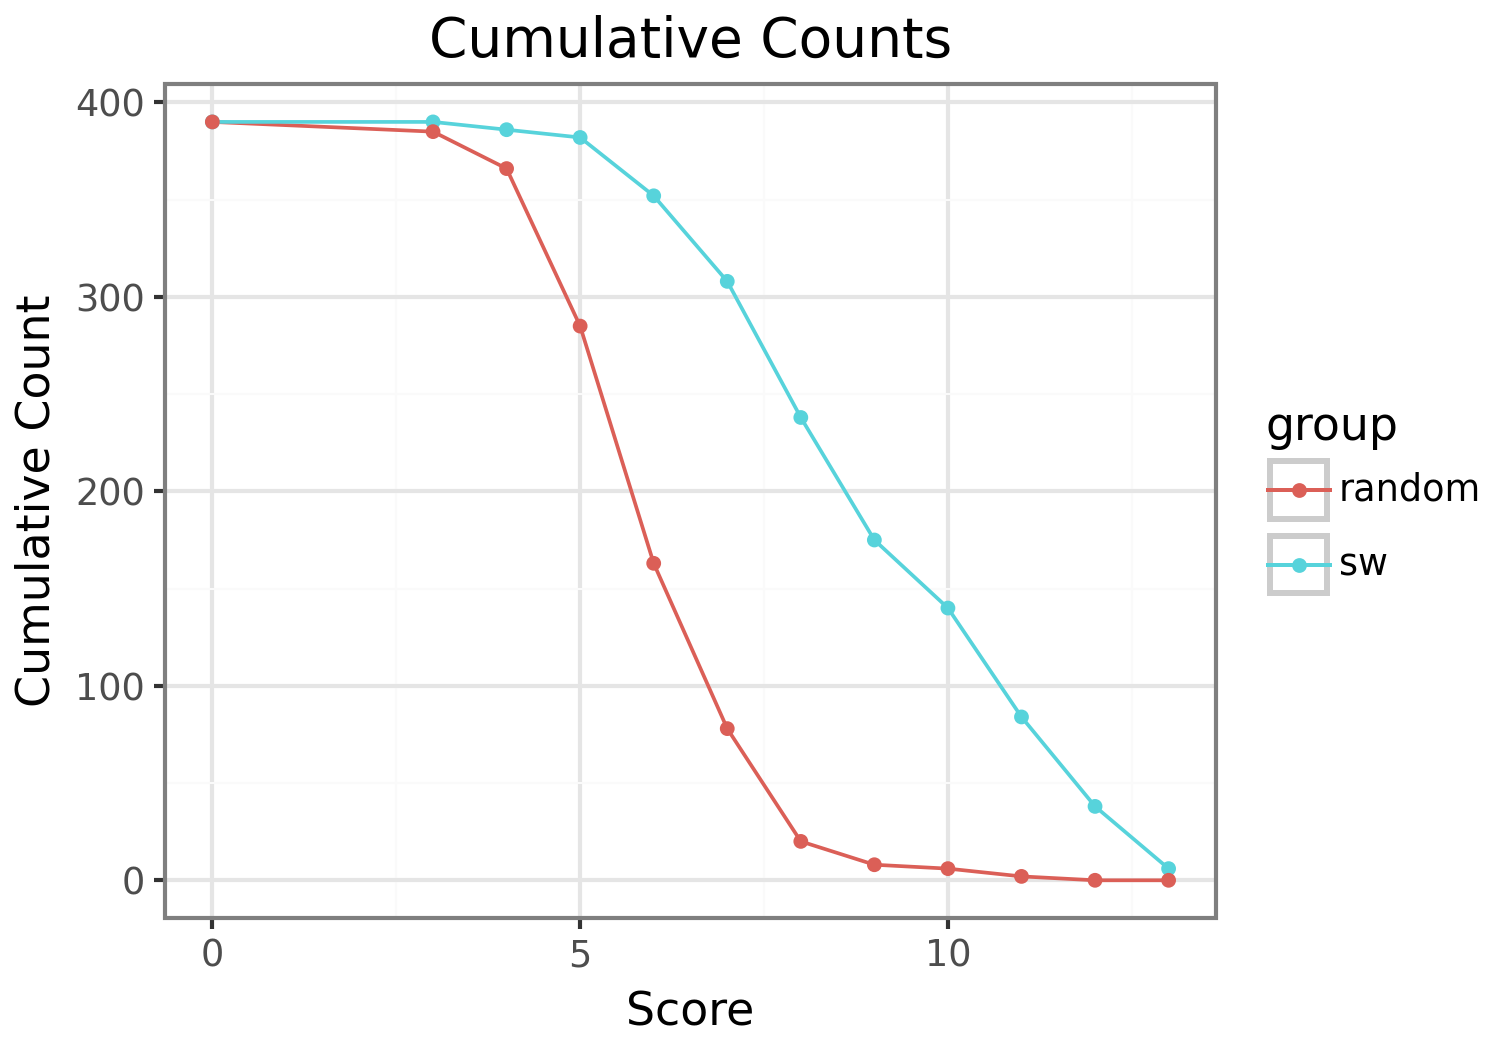
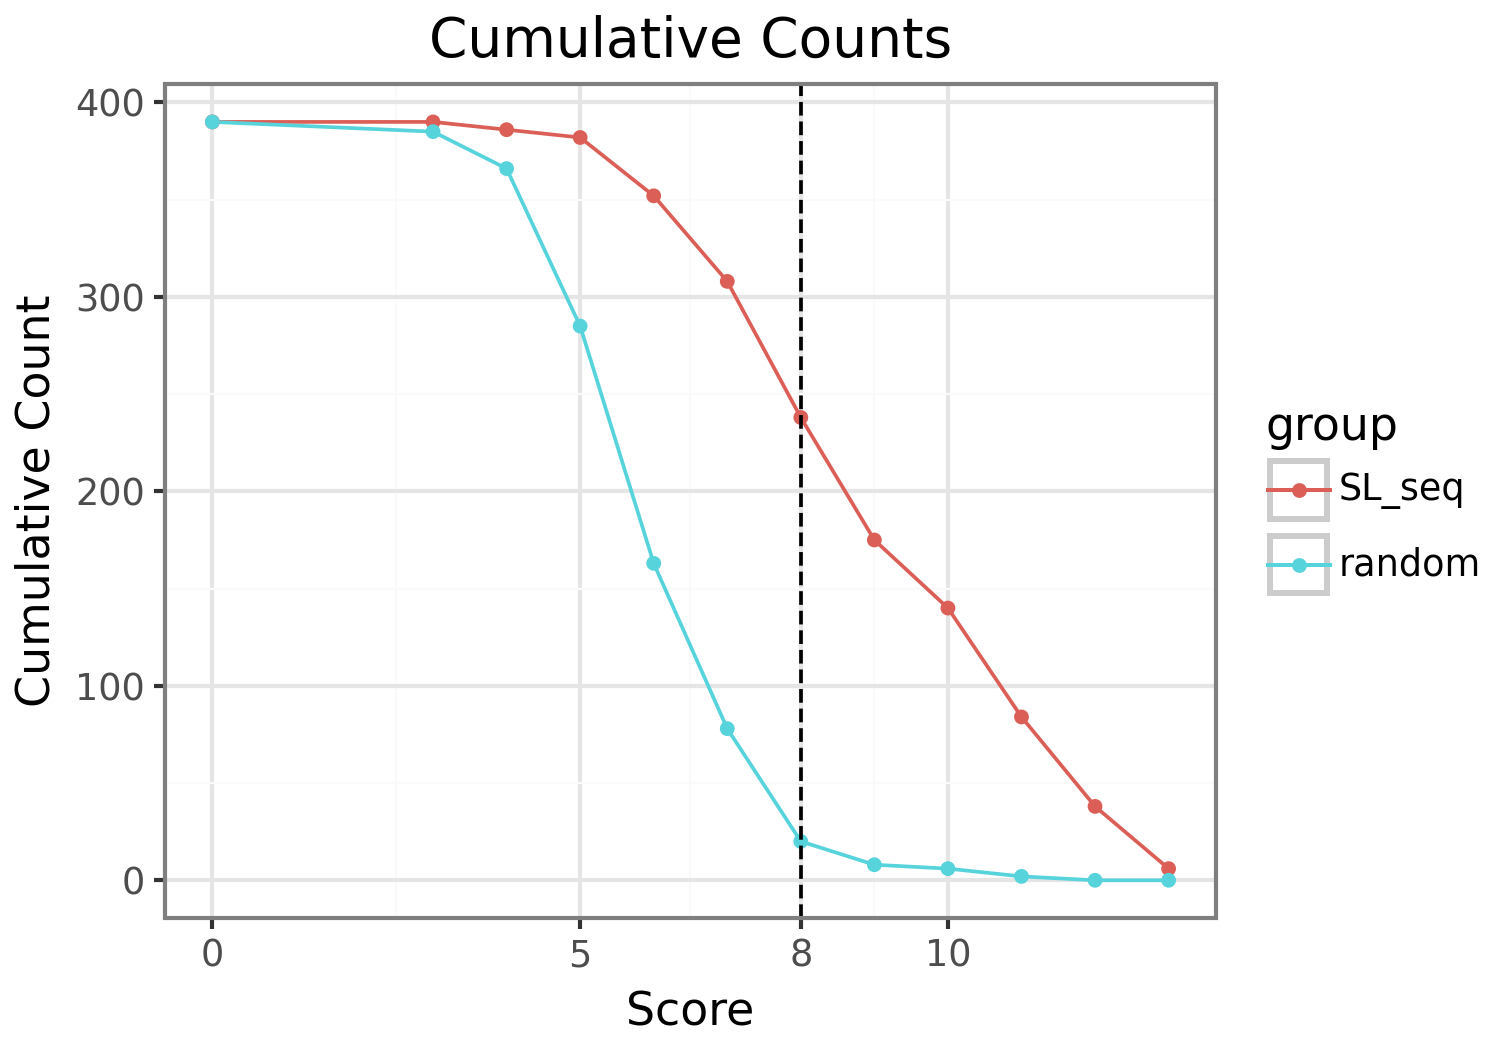
updated result html

diff --git a/sample/SLRange_view/visualization_results.html b/sample/SLRange_view/visualization_results.html
@@ -30,6 +30,23 @@
             box-shadow: 0 2px 4px rgba(0,0,0,0.1);
             border-radius: 4px;
         }
+        table {
+            width: 100%;
+            border-collapse: collapse;
+            margin: 20px 0;
+        }
+        th, td {
+            padding: 8px;
+            text-align: left;
+            border: 1px solid #ddd;
+        }
+        th {
+            background-color: #f5f5f5;
+            color: #333;
+        }
+        tr:nth-child(even) {
+            background-color: #fafafa;
+        }
         .footer {
             text-align: center;
             color: #666;
@@ -42,13 +59,140 @@
 </head>
 <body>
     <h1 id="data-visualization-results">Data Visualization Results</h1>
-<p>This document contains the visualization results from the analysis.</p>
+<p>This document contains the visualization results from the SLRanger.</p>
+<h2 id="data-summary-table">Data Summary Table</h2>
+<table>
+<thead>
+<tr>
+<th style="text-align: left;">Variable</th>
+<th style="text-align: right;">Read Count</th>
+<th style="text-align: left;">Proportion to total reads (%)</th>
+<th style="text-align: left;">Proportion to Candidate reads (%)</th>
+<th style="text-align: left;">Proportion to Potential reads (%)</th>
+<th style="text-align: left;">Proportion to SLRanger Solid SL reads (%)</th>
+</tr>
+</thead>
+<tbody>
+<tr>
+<td style="text-align: left;">Total</td>
+<td style="text-align: right;">456</td>
+<td style="text-align: left;">/</td>
+<td style="text-align: left;">/</td>
+<td style="text-align: left;">/</td>
+<td style="text-align: left;">/</td>
+</tr>
+<tr>
+<td style="text-align: left;">Candidate</td>
+<td style="text-align: right;">390</td>
+<td style="text-align: left;">85.53</td>
+<td style="text-align: left;">/</td>
+<td style="text-align: left;">/</td>
+<td style="text-align: left;">/</td>
+</tr>
+<tr>
+<td style="text-align: left;">Potential SL</td>
+<td style="text-align: right;">365</td>
+<td style="text-align: left;">80.04</td>
+<td style="text-align: left;">93.59</td>
+<td style="text-align: left;">/</td>
+<td style="text-align: left;">/</td>
+</tr>
+<tr>
+<td style="text-align: left;">SW Solid SL</td>
+<td style="text-align: right;">234</td>
+<td style="text-align: left;">51.32</td>
+<td style="text-align: left;">60.0</td>
+<td style="text-align: left;">64.11</td>
+<td style="text-align: left;">99.15</td>
+</tr>
+<tr>
+<td style="text-align: left;">SLRanger Solid SL</td>
+<td style="text-align: right;">236</td>
+<td style="text-align: left;">51.75</td>
+<td style="text-align: left;">60.51</td>
+<td style="text-align: left;">64.66</td>
+<td style="text-align: left;">/</td>
+</tr>
+<tr>
+<td style="text-align: left;">SL1</td>
+<td style="text-align: right;">69</td>
+<td style="text-align: left;">15.13</td>
+<td style="text-align: left;">17.69</td>
+<td style="text-align: left;">18.9</td>
+<td style="text-align: left;">29.24</td>
+</tr>
+<tr>
+<td style="text-align: left;">SL2</td>
+<td style="text-align: right;">53</td>
+<td style="text-align: left;">11.62</td>
+<td style="text-align: left;">13.59</td>
+<td style="text-align: left;">14.52</td>
+<td style="text-align: left;">22.46</td>
+</tr>
+<tr>
+<td style="text-align: left;">SL4</td>
+<td style="text-align: right;">14</td>
+<td style="text-align: left;">3.07</td>
+<td style="text-align: left;">3.59</td>
+<td style="text-align: left;">3.84</td>
+<td style="text-align: left;">5.93</td>
+</tr>
+<tr>
+<td style="text-align: left;">SL6</td>
+<td style="text-align: right;">2</td>
+<td style="text-align: left;">0.44</td>
+<td style="text-align: left;">0.51</td>
+<td style="text-align: left;">0.55</td>
+<td style="text-align: left;">0.85</td>
+</tr>
+<tr>
+<td style="text-align: left;">SL7</td>
+<td style="text-align: right;">4</td>
+<td style="text-align: left;">0.88</td>
+<td style="text-align: left;">1.03</td>
+<td style="text-align: left;">1.1</td>
+<td style="text-align: left;">1.69</td>
+</tr>
+<tr>
+<td style="text-align: left;">SL10</td>
+<td style="text-align: right;">9</td>
+<td style="text-align: left;">1.97</td>
+<td style="text-align: left;">2.31</td>
+<td style="text-align: left;">2.47</td>
+<td style="text-align: left;">3.81</td>
+</tr>
+<tr>
+<td style="text-align: left;">SL12</td>
+<td style="text-align: right;">12</td>
+<td style="text-align: left;">2.63</td>
+<td style="text-align: left;">3.08</td>
+<td style="text-align: left;">3.29</td>
+<td style="text-align: left;">5.08</td>
+</tr>
+<tr>
+<td style="text-align: left;">SL13</td>
+<td style="text-align: right;">2</td>
+<td style="text-align: left;">0.44</td>
+<td style="text-align: left;">0.51</td>
+<td style="text-align: left;">0.55</td>
+<td style="text-align: left;">0.85</td>
+</tr>
+<tr>
+<td style="text-align: left;">SL2_unknown</td>
+<td style="text-align: right;">71</td>
+<td style="text-align: left;">15.57</td>
+<td style="text-align: left;">18.21</td>
+<td style="text-align: left;">19.45</td>
+<td style="text-align: left;">30.08</td>
+</tr>
+</tbody>
+</table>
 <h2 id="visualization-gallery">Visualization Gallery</h2>
-<h3 id="cumulative-counts-sw">Cumulative Counts (SW)</h3>
-<p><img alt="Cumulative Counts (SW)" src="cumulative_int.png" /></p>
+<h3 id="cumulative-counts-sw-the-dashed-black-line-represents-the-recommended-cutoff-value">Cumulative Counts (SW). The <strong>dashed black line</strong> represents the recommended <strong>cutoff</strong> value.</h3>
+<p><img alt="Cumulative Counts (SW). The **dashed black line** represents the recommended **cutoff** value." src="cumulative_int.png" /></p>
 <hr />
-<h3 id="cumulative-counts-sl">Cumulative Counts (SL)</h3>
-<p><img alt="Cumulative Counts (SL)" src="cumulative_int_sl.png" /></p>
+<h3 id="cumulative-counts-sl-the-dashed-black-line-represents-the-recommended-cutoff-value">Cumulative Counts (SL). The <strong>dashed black line</strong> represents the recommended <strong>cutoff</strong> value.</h3>
+<p><img alt="Cumulative Counts (SL). The **dashed black line** represents the recommended **cutoff** value." src="cumulative_int_sl.png" /></p>
 <hr />
 <h3 id="query-length-distribution">Query Length Distribution</h3>
 <p><img alt="Query Length Distribution" src="query_length.png" /></p>
@@ -60,6 +204,6 @@
 <p><img alt="SL Type Distribution" src="type_pie.png" /></p>
 <hr />
 <hr />
-<p><em>Generated on 2025-03-31 15:59:14</em></p>
+<p>*Generated on 2025-04-02 11:23:27. If you think this tool is pretty cool, don’t forget to give our <a href="https://github.com/lrslab/SLRanger">Git</a> a star! *</p>
 </body>
 </html>

diff --git a/sample/SLRange_view/visualization_results.md b/sample/SLRange_view/visualization_results.md
@@ -1,20 +1,39 @@
 
 # Data Visualization Results
 
-This document contains the visualization results from the analysis.
+This document contains the visualization results from the SLRanger.
+
+## Data Summary Table
+
+| Variable          |   Read Count | Proportion to total reads (%)   | Proportion to Candidate reads (%)   | Proportion to Potential reads (%)   | Proportion to SLRanger Solid SL reads (%)   |
+|:------------------|-------------:|:--------------------------------|:------------------------------------|:------------------------------------|:--------------------------------------------|
+| Total             |          456 | /                               | /                                   | /                                   | /                                           |
+| Candidate         |          390 | 85.53                           | /                                   | /                                   | /                                           |
+| Potential SL      |          365 | 80.04                           | 93.59                               | /                                   | /                                           |
+| SW Solid SL       |          234 | 51.32                           | 60.0                                | 64.11                               | 99.15                                       |
+| SLRanger Solid SL |          236 | 51.75                           | 60.51                               | 64.66                               | /                                           |
+| SL1               |           69 | 15.13                           | 17.69                               | 18.9                                | 29.24                                       |
+| SL2               |           53 | 11.62                           | 13.59                               | 14.52                               | 22.46                                       |
+| SL4               |           14 | 3.07                            | 3.59                                | 3.84                                | 5.93                                        |
+| SL6               |            2 | 0.44                            | 0.51                                | 0.55                                | 0.85                                        |
+| SL7               |            4 | 0.88                            | 1.03                                | 1.1                                 | 1.69                                        |
+| SL10              |            9 | 1.97                            | 2.31                                | 2.47                                | 3.81                                        |
+| SL12              |           12 | 2.63                            | 3.08                                | 3.29                                | 5.08                                        |
+| SL13              |            2 | 0.44                            | 0.51                                | 0.55                                | 0.85                                        |
+| SL2_unknown       |           71 | 15.57                           | 18.21                               | 19.45                               | 30.08                                       |
 
 ## Visualization Gallery
 
 
-### Cumulative Counts (SW)
+### Cumulative Counts (SW). The **dashed black line** represents the recommended **cutoff** value.
 
-![Cumulative Counts (SW)](cumulative_int.png)
+![Cumulative Counts (SW). The **dashed black line** represents the recommended **cutoff** value.](cumulative_int.png)
 
 ---
         
-### Cumulative Counts (SL)
+### Cumulative Counts (SL). The **dashed black line** represents the recommended **cutoff** value.
 
-![Cumulative Counts (SL)](cumulative_int_sl.png)
+![Cumulative Counts (SL). The **dashed black line** represents the recommended **cutoff** value.](cumulative_int_sl.png)
 
 ---
         
@@ -39,5 +58,5 @@ This document contains the visualization results from the analysis.
 
 ---
 
-*Generated on 2025-03-31 15:59:14*
+*Generated on 2025-04-02 11:23:27. If you think this tool is pretty GOOD, don’t forget to give our [Git](https://github.com/lrslab/SLRanger) a star! *
     
